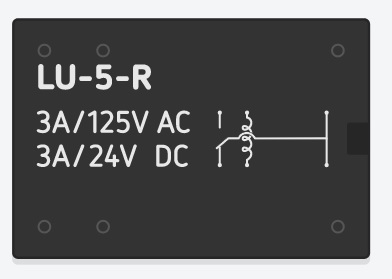
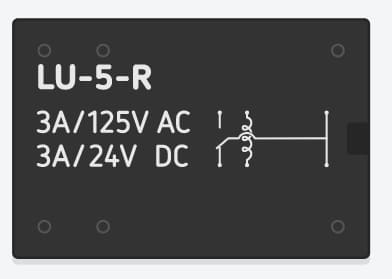
Refactor: Alterador formato das imagens

diff --git a/src/2-Ambiente/3-Ambiente-online.md b/src/2-Ambiente/3-Ambiente-online.md
@@ -16,35 +16,35 @@ O Tinkercad também pode ser utilizado para deixar seu projeto documentado, caso
 Infelizmente é necessário criar uma conta para utilizar o site, para isso basta clicar no botão "Inscreva-se agora" no canto superior direito.
 <p></p>
 
-<img src="../imgs/TinkerCad/Inscrever.png" alt="Inscrever-se agora">
+<img src="../imgs/TinkerCad/Inscrever.jpg" alt="Inscrever-se agora">
 
 Após isso aparecerá uma janela com algumas opções no centro da tela, clique em "Criar uma conta pessoal"
 <p></p>
 
-<img src="../imgs/TinkerCad/CriarConta.png" alt="Criar uma conta pessoal">
+<img src="../imgs/TinkerCad/CriarConta.jpg" alt="Criar uma conta pessoal">
 
 Após isso aparecerá uma janela com mais opções no centro da tela, no caso farei utilizando uma conta google, utilize a sua conta que seja mais conveniente.  
 **Obs.: Ao clicar em "Mais opções de login..." aparecerá a opção de login com o Facebook e com o Microsoft, por padrão só é mostrado Google e Apple.**
 <p></p>
 
-<img src="../imgs/TinkerCad/Opcoes.png" alt="Opções de criação de conta">
+<img src="../imgs/TinkerCad/Opcoes.jpg" alt="Opções de criação de conta">
 
 Após feito o login, uma janela será aberta com a opção de Continuar, basta clicar nela e o processo será concluído.
 <p></p>
 
 
-<img src="../imgs/TinkerCad/Continuar.png" alt="Opção de continuar">
+<img src="../imgs/TinkerCad/Continuar.jpg" alt="Opção de continuar">
 
 Uma vez terminado o processo uma ultima janela se abrirá basta clicar no botão de fechar.
 <p></p>
 
-<img src="../imgs/TinkerCad/Final.png" alt="Botão de fechar">
+<img src="../imgs/TinkerCad/Final.jpg" alt="Botão de fechar">
 
 
 Para criar um projeto utilizando o arduino basta clicar na aba "Circuitos" (1) no canto esquerdo e em seguida "Criar novo Circuito"(2)
 <p></p>
 
-<img src="../imgs/TinkerCad/CriandoCircuito.png" alt="Criando circuito">
+<img src="../imgs/TinkerCad/CriandoCircuito.jpg" alt="Criando circuito">
 
 </details>
 

diff --git a/src/4-Modulo-basico/2-Eletronica-basica.md b/src/4-Modulo-basico/2-Eletronica-basica.md
@@ -27,7 +27,7 @@ No caso do nosso Arduino podemos usar diferentes tipos de geradores, o nosso com
 No exemplo a baixo é mostrado a alimentação do Arduino feita por uma bateria.
 
 <p align="center">
-    <img src="../imgs/ModuloBasico/Eletronica-basica/AlimentacaoComBateria.png" alt="Arduino Uno + bateria 9V">
+    <img src="../imgs/ModuloBasico/Eletronica-basica/AlimentacaoComBateria.jpg" alt="Arduino Uno + bateria 9V">
 </p>
 
 É importante ressaltar que **sempre** deve-se utilizar somente uma fonte de energia. Caso seja utilizada mais de uma, isso pode ocasionar na queima dos componentes da placa, ou caso esteja utilizando a entrada USB, como uma das fontes, pode ocasionar na queima da entrada USB do seu computador, por exemplo.
@@ -85,7 +85,7 @@ Está é outra parte do circuito interno dele, significa que a energia que passa
 Tendo visto tensão e corrente, vamos seguir para a última grandeza dessa trindade elétrica, mas não menos importante, a resistência. A imagem a seguir ilustra bem a "briga" entre essas 3 grandezas. Essa imagem é amplamente utilizada no ensino de eletrônica básica, logo se torna difícil conhecer a sua origem.
 
 <p align="center">
-    <img src="../imgs/ModuloBasico/Eletronica-basica/LeiDeOhm.png" alt="Lei de Ohm">
+    <img src="../imgs/ModuloBasico/Eletronica-basica/LeiDeOhm.jpg" alt="Lei de Ohm">
 </p>
 
 Uma vez que temos a tensão (Volt) e a corrente (Ampére) atuando, se não tivermos algo, ou no caso da imagem alguém, para limitar essa atuação podemos queimar os nossos componentes/equipamentos. A resistência traz uma maior flexibilidade no uso dos componentes/equipamentos. A unidade utilizada para descrever-la é o **Ohm** dada pela letra grega Ω ou ainda a sigla R.

diff --git a/src/2-Ambiente/1-Ambiente-windows.md b/src/2-Ambiente/1-Ambiente-windows.md
@@ -30,14 +30,14 @@ Caso deseje utilizar a versão portátil da IDE, basta acessar o site do [Arduin
 <p></p>
 
 <p align="center">
-    <img src="../imgs/Win/DownloadZip.png" alt="Opção de download zip">
+    <img src="../imgs/Win/DownloadZip.jpg" alt="Opção de download zip">
 </p>
 
 Após escolher a opção uma nova tela se abrirá basta clica em "Just download" e o download iniciará.
 <p></p>
 
 <p align="center">
-    <img src="../imgs/Win/JustDownload.png" alt="botão just download">
+    <img src="../imgs/Win/JustDownload.jpg" alt="botão just download">
 </p>
 
 Após feito o download do .zip basta extrair no local que desejar e executar o arquivo arduino.exe
@@ -51,14 +51,14 @@ Caso deseje utilizar a versão instalável da IDE, basta acessar o site do [Ardu
 <p></p>
 
 <p align="center">
-    <img src="../imgs/Win/DownloadExe.png" alt="Opção de download instalavel">
+    <img src="../imgs/Win/DownloadExe.jpg" alt="Opção de download instalavel">
 </p>
 
 Após escolher a opção uma nova tela se abrirá basta clica em "Just download" e o download iniciará.
 <p></p>
 
 <p align="center">
-    <img src="../imgs/Win/JustDownload.png" alt="botão just download">
+    <img src="../imgs/Win/JustDownload.jpg" alt="botão just download">
 </p>
 
 Após feito o download do .exe basta executar-lo.

diff --git a/src/4-Modulo-basico/1-Conhecendo.md b/src/4-Modulo-basico/1-Conhecendo.md
@@ -79,7 +79,7 @@ Existem ainda uma infinidade de outros modelos de Arduino, caso queira conhece-l
 <p></p>
 
 <p align="center">
-    <img src="http://1.bp.blogspot.com/-V3RlUkAgP2c/UHo6unaVgNI/AAAAAAAAALQ/Aenlp91DQHs/s1600/arduinos.png" alt="Tipos de Arduinos">
+    <img src="http://1.bp.blogspot.com/-V3RlUkAgP2c/UHo6unaVgNI/AAAAAAAAALQ/Aenlp91DQHs/s1600/arduinos.jpg" alt="Tipos de Arduinos">
 </p>
 
 Imagem retirada do site: http://ardufc.blogspot.com/2012/10/modelos-do-arduino.html

diff --git a/src/2-Ambiente/2-Ambiente-linux.md b/src/2-Ambiente/2-Ambiente-linux.md
@@ -17,7 +17,7 @@ uname -m
 Após feito a verificação você pode utilizar o site oficial do [Arduino](https://www.arduino.cc/en/software) para baixar o que se enquadra melhor com seu sistema, são essas opções como na imagem a baixo.
 
 <p align="center">
-    <img src="../imgs/Unix/Site.png" alt="Opções para linux">
+    <img src="../imgs/Unix/Site.jpg" alt="Opções para linux">
 </p>
 
 Localize o arquivo e o extraia utilizando o comando a seguir:

diff --git a/src/4-Modulo-basico/5-Acendendo-LED.md b/src/4-Modulo-basico/5-Acendendo-LED.md
@@ -26,7 +26,7 @@ Requisitos para montar o circuito:
 Inicialmente estaremos montando o circuito da maneira mostrada a baixo, dentro do possível experimente outras maneiras.
 
 <p align="center">
-    <img src="../imgs/ModuloBasico/AcendendoLed/Circuito.png" alt="Esquema de ligação">
+    <img src="../imgs/ModuloBasico/AcendendoLed/Circuito.jpg" alt="Esquema de ligação">
 </p>
 
 # Código

diff --git a/src/4-Modulo-basico/6-IO.md b/src/4-Modulo-basico/6-IO.md
@@ -1,5 +1,5 @@
 # 4.04 Entrada e Saída (Comunicação serial)
 
 <p align="center">
-    <img src="../imgs/construction.png" alt="Arduino Uno" width="500">
+    <img src="../imgs/Auxi/construction.png" alt="Arduino Uno" width="500">
 </p>

diff --git a/README.md b/README.md
@@ -6,7 +6,7 @@
 
 <h1 align="center">Arduino4Noobs
 <p align="center">
-    <img src="src/imgs/ino.png" alt="Arduino Uno" width="200">
+    <img src="src/imgs/Auxi/ino.png" alt="Arduino Uno" width="200">
 </p></h1>
 
 <p align="center">

diff --git a/src/4-Modulo-basico/9-Temperatura.md b/src/4-Modulo-basico/9-Temperatura.md
@@ -1,4 +1,5 @@
 # 4.9 Sensor de temperatura
+
 <p align="center">
-    <img src="../imgs/construction.png" alt="Arduino Uno" width="500">
+    <img src="../imgs/Auxi/construction.png" alt="Arduino Uno" width="500">
 </p>

diff --git a/src/4-Modulo-basico/7-Potenciometro.md b/src/4-Modulo-basico/7-Potenciometro.md
@@ -1,5 +1,5 @@
 # 4.9 Potênciometro
 
 <p align="center">
-    <img src="../imgs/construction.png" alt="Arduino Uno" width="500">
+    <img src="../imgs/Auxi/construction.png" alt="Arduino Uno" width="500">
 </p>

diff --git a/src/4-Modulo-basico/8-Servo-motor.md b/src/4-Modulo-basico/8-Servo-motor.md
@@ -1,5 +1,5 @@
 # 4.10 Servo motor
 
 <p align="center">
-    <img src="../imgs/construction.png" alt="Arduino Uno" width="500">
+    <img src="../imgs/Auxi/construction.png" alt="Arduino Uno" width="500">
 </p>
